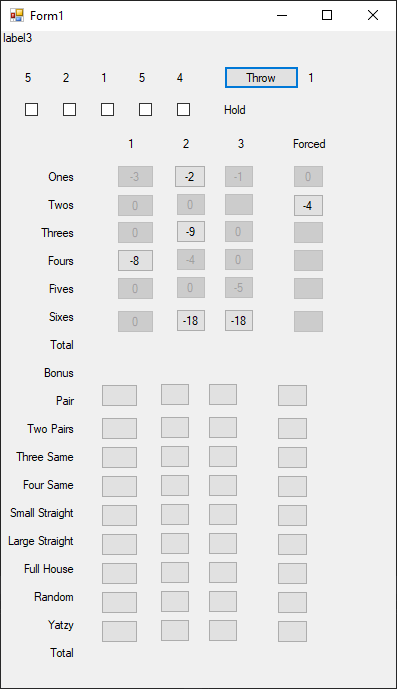
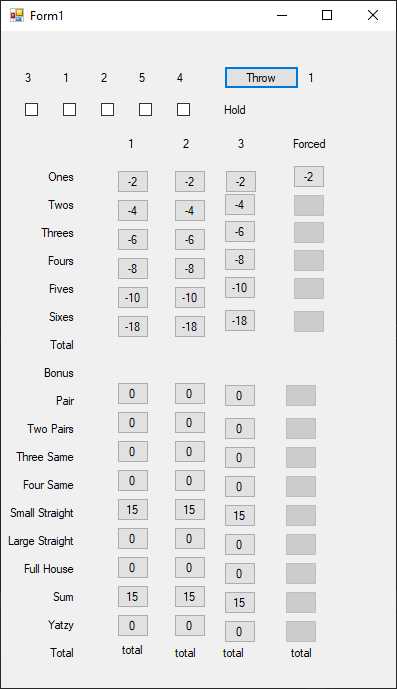
Update README.md and screencap.PNG

diff --git a/README.md b/README.md
@@ -4,7 +4,7 @@ Game similar, but different to Yahtzee. Goal of this project is to adapt the gam
 Features working:\
 -Dice throwing\
 -Holding/locking dice between throws\
--Upper section of the score board
+-Scoreboard apart from total score calculating
 
 Work in progress:\
 -Single player mechanics\
